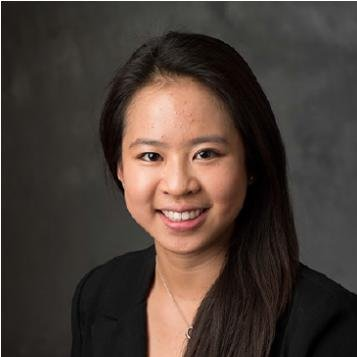
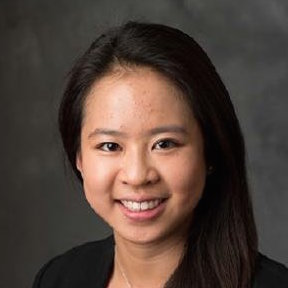
Added Alison

diff --git a/index.html b/index.html
@@ -110,6 +110,13 @@
             <p class="name">Leeane Chen</p>
             <p>Outreach</p>
           </li>
+          <li>
+            <div class="pic">
+              <img src="./images/alison.jpg" width="100%" alt="Alison Maslar-Donar">
+            </div>
+            <p class="name">Alison Maslar-Donar</p>
+            <p>Acquisition Manager</p>
+          </li>
         </ul>
       </div>
       <div class="footer">
